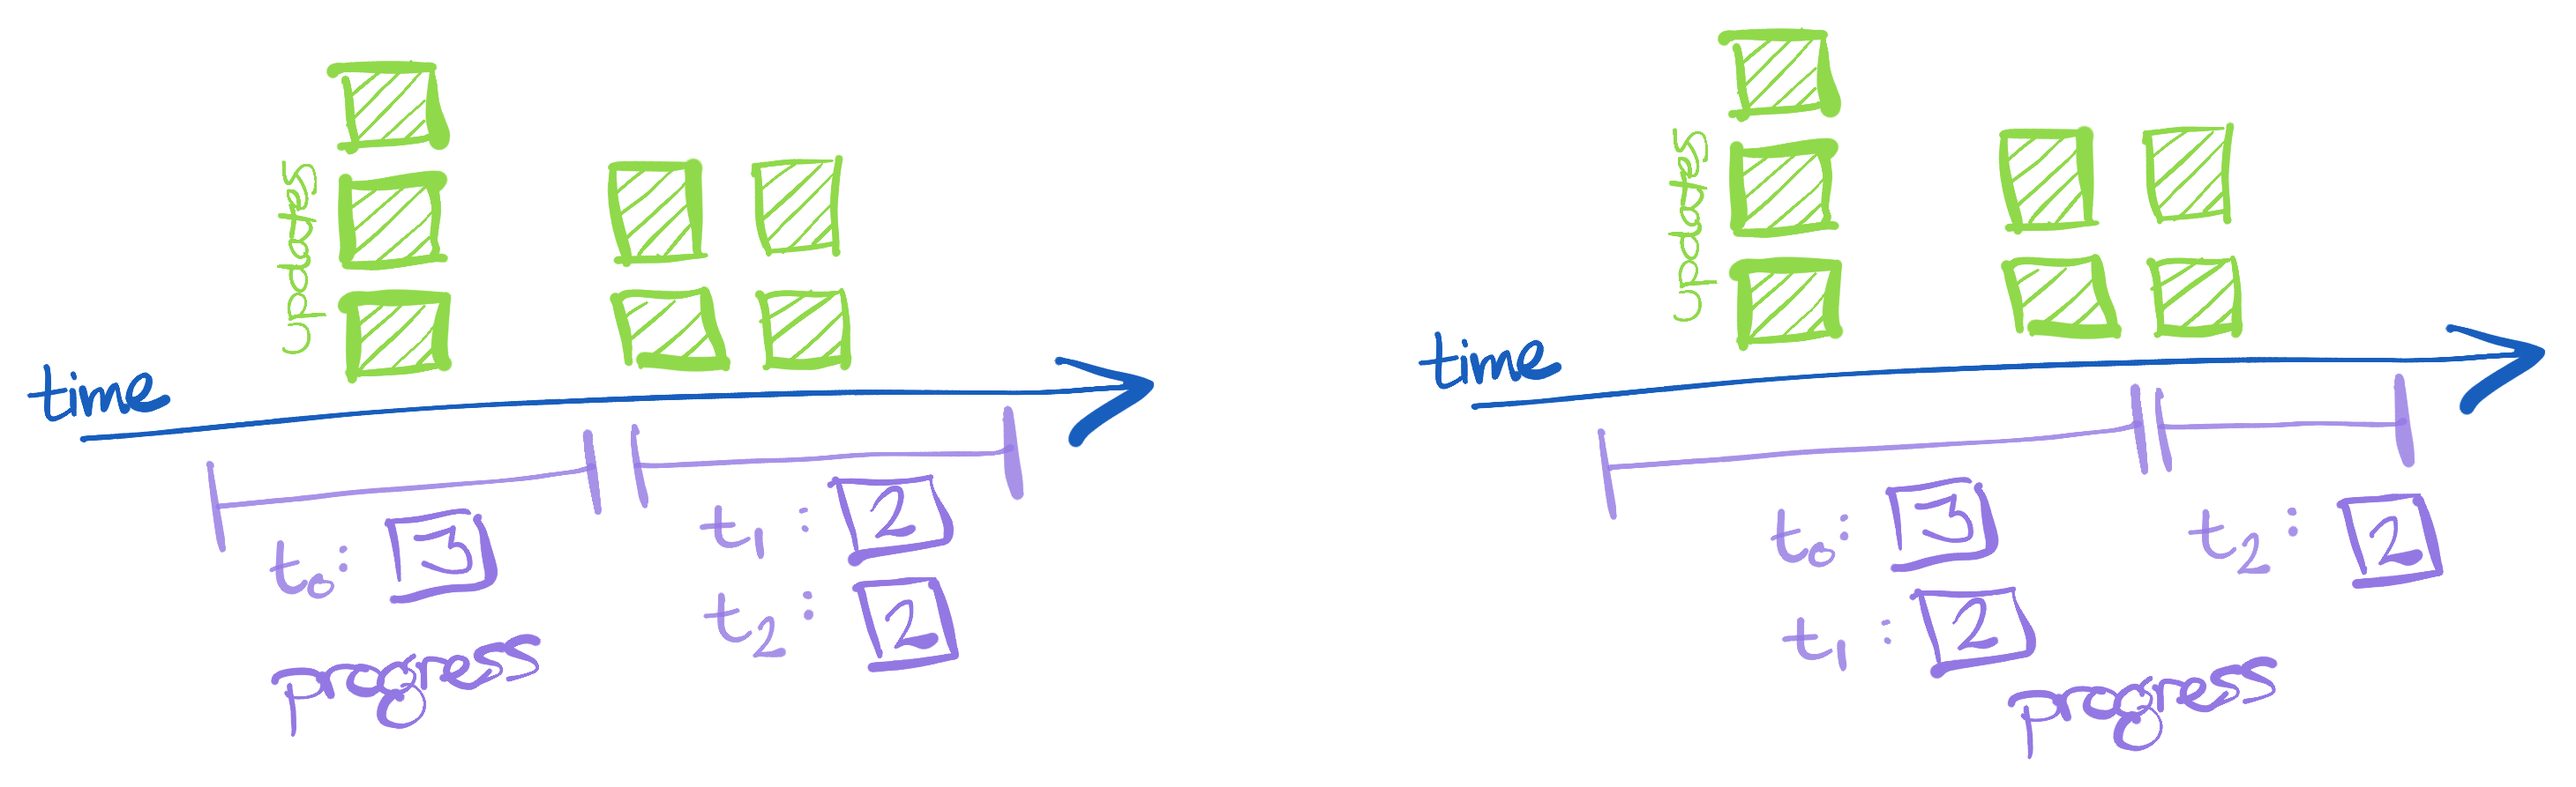
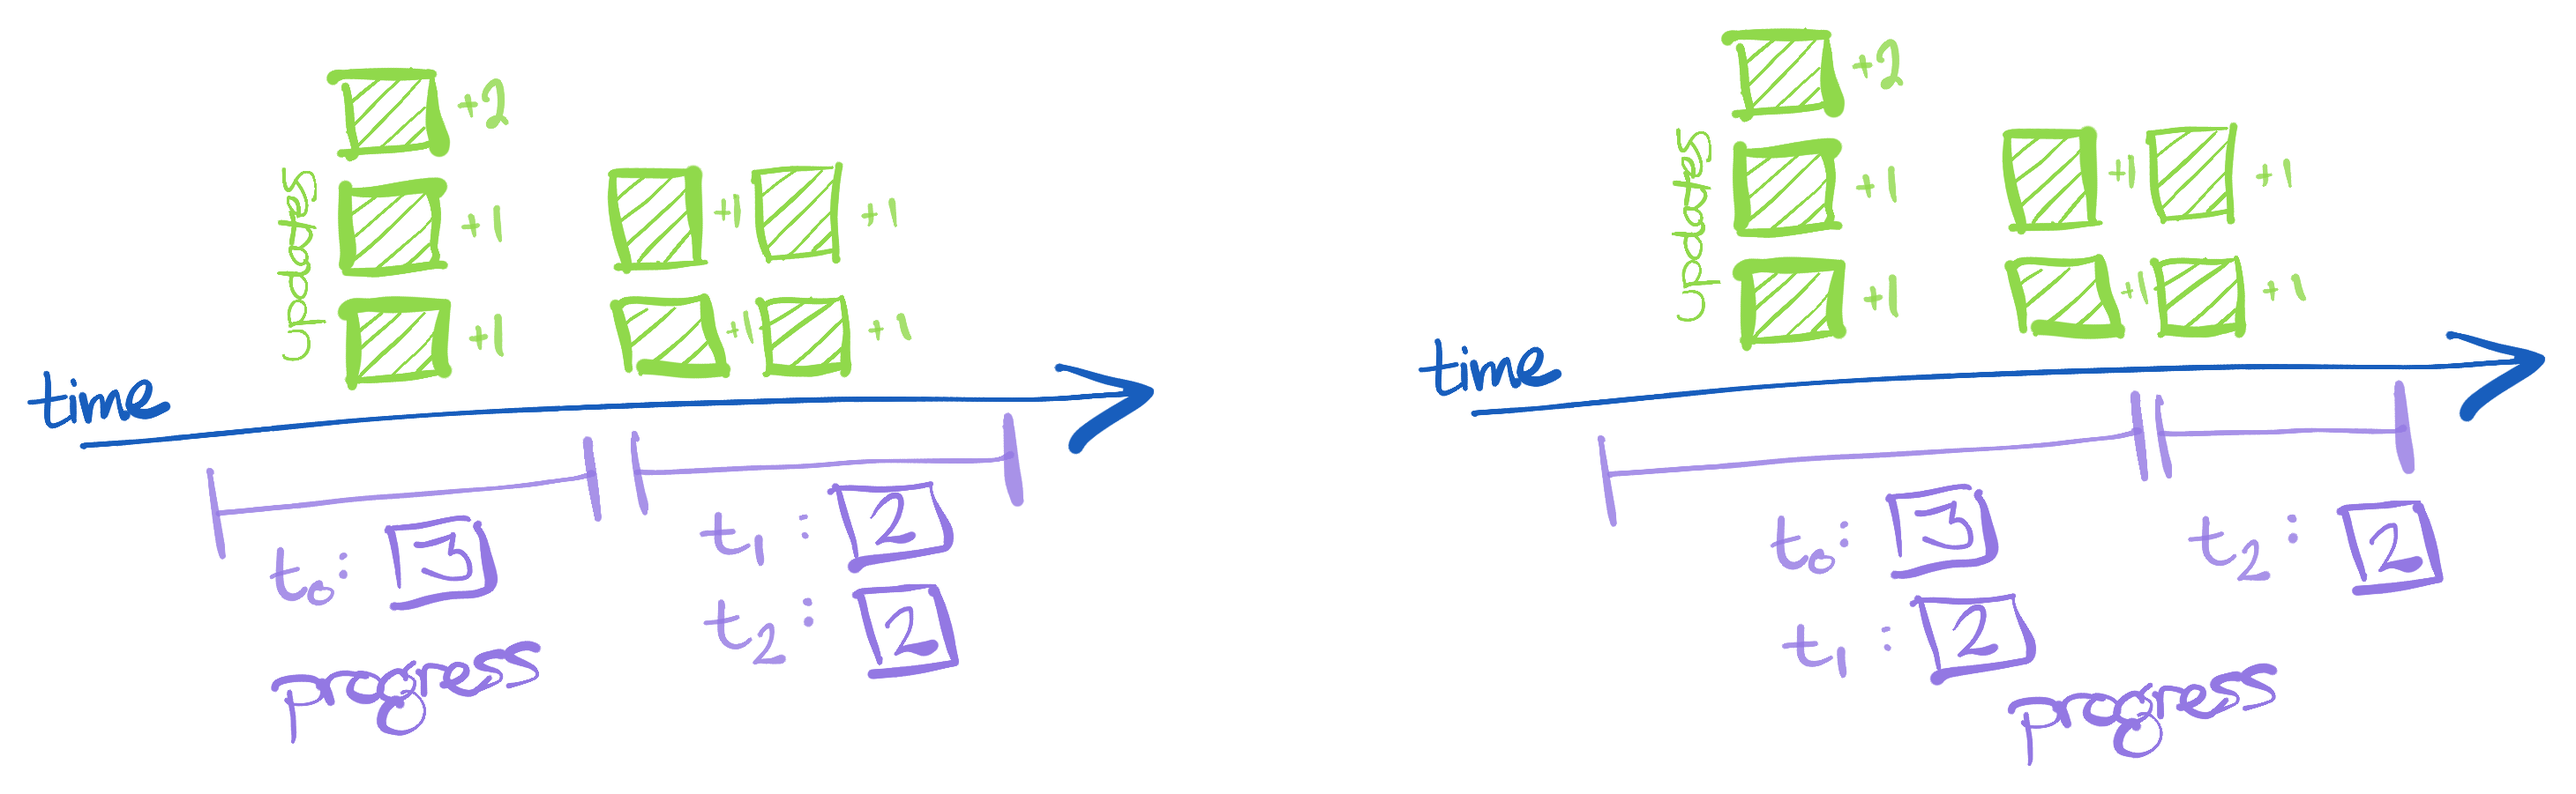
draft update

diff --git a/posts/2020-08-01.md b/posts/2020-08-01.md
@@ -1,4 +1,4 @@
-# Change Data Capture
+# Change Data Capture (part 1)
 
 **DRAFT**
 
@@ -8,34 +8,36 @@ What makes this challenging? Why not just write out a log of whatever happens to
 
 If you are familiar with the modern stream storage system---Kafka, Kinesis, Pulsar, Azure Event Hubs---you may know how awkwardly our three desiderata interact. If you want performance, you should expect to read concurrently from streams that are not totally ordered. If you want robustness you'll need to be prepared for duplication in your streams as at-least-once stream storage systems cope with anomalies. Life can be pretty hard if you want correct answers in a distributed setting.
 
-This post will talk through our first revision of our *change data capture* format: how we write down and read back changes to data. This format allows arbitrary duplication and reordering of its messages, among other anomalies, while maintaining a compact footprint in memory. These features allow us to use streaming infrastructure that does not protect against these issues (most of them), but also to introduce several new benefits which we will get to by the post's end.
+This post will talk through a *change data capture protocol*: how one writes down and reads back changes to data. This protocol allows arbitrary duplication and reordering of its messages, among other anomalies, while maintaining a compact footprint in memory. These features allow us to use streaming infrastructure that does not protect against these issues (most of them), but they also allow us to introduce several new benefits which we will get to by the post's end.
+
+It's probably worth stressing that this isn't something Materialize is landing tomorrow. The post is more of an exploration of how we can capture and replay the data that Differential Dataflow produces. The code will be landing in the [Differential Dataflow repository](https://github.com/TimelyDataflow/differential-dataflow), and should be broadly useful. This is also only part 1; we'll talk through the protocol and a single-threaded implementation of the reader, but we won't get as far as the data-parallel implementation in differential dataflow (which [does seem to work](https://twitter.com/frankmcsherry/status/1291828794513403910)!).
 
 ## Data that Change
 
 Let's start out by looking at the problem we have to deal with.
 
-Materialize maintains computations over data that change. The data are large relational collections whose individual records may come and go for reasons we can't anticipate or constrain. All we know is that as time progresses, the data change.
+Materialize maintains computations over data that change. The data are large relational collections whose individual records may come and go for reasons we can neither anticipate or constrain. All we know is that as time progresses, the data change.
 
-We can record the changes that happen to the data by writing down the records that are added to and removed from the collection at each time. Materialize is based on [differential dataflow]() which does this with "update triples" of 1. the record that change, 2. the time it changed, and 3. how it changed (was it added or removed).
+We can record the changes that happen to the data by writing down the records that are added to and removed from the collection at each time. Materialize is based on [differential dataflow](https://github.com/TimelyDataflow/differential-dataflow) which does this with "update triples" of 1. the record that changed, 2. the time it changed, and 3. how it changed (was it added or removed).
 
 Let's take an example:
 ```
-// three records are added
+// four records are added
+(record0, time0, +1)
 (record0, time0, +1)
 (record1, time0, +1)
 (record2, time0, +1)
 
 // one record is "updated"
 (record1, time1, -1)
-(record4, time1, +1)
+(record2, time1, +1)
 
 // two records are deleted
 (record0, time2, -1)
-(record4, time2, -1)
+(record2, time2, -1)
 ```
 
-We see a sequence of changes, ordered by the three times `time0`, `time1`, and `time2`. At `time0` we see three records are introduced. We don't know if these are the "initial data", but we don't need to; we are just transcribing the changes that occur. At `time1` we see both a deletion and an addition of a record. We can interpret this (perhaps incorrectly) as an update to `record1` that changes it to `record4`; again we aren't worried about the reason for the change, just what the change was. Finally, at `time2` we see the deletion of two records.
-
+We see a sequence of changes, ordered by the three times `time0`, `time1`, and `time2`. At `time0` we see four records are introduced. It turns out one record was added twice but collections are multisets so that can happen. At `time1` we see both a deletion and an addition of a record. We can interpret this (perhaps incorrectly) as an update to `record1` that changes it to `record4`; again we aren't worried about the reason for the change, just what the change was. Finally, at `time2` we see the deletion of two records.
 
 ![Data change as time advances](https://github.com/frankmcsherry/blog/blob/master/assets/cdc/figure1.png)
 
@@ -49,41 +51,42 @@ Our history has *updates to data*, but we can also provide *progress statements*
 Here is a history with progress statements.
 ```
 update (record0, time0, +1)
+update (record0, time0, +1)
 update (record1, time0, +1)
 update (record2, time0, +1)
 finish time0
 update (record1, time1, -1)
-update (record4, time1, +1)
+update (record2, time1, +1)
 finish time1
 update (record0, time2, -1)
-update (record4, time2, -1)
+update (record2, time2, -1)
 finish time2
 finish time3
 ...
 ```
 
-I put in both a `finish time2` to show that we can close out the `time2` updates, but also a `finish time3` to show that we might want to communicate that times are closed even when there are no updates.
+I put in a `finish time2` statement to show that we can close out the `time2` updates, but also a `finish time3` statement to show that we might want to communicate that times are closed even when there are no updates.
 
 ## Anomalies and Opportunities
 
-Because computer systems are complicated, we can't simply write down the history above and expect everything to work out. Because computer systems are complicated, they will occasionally re-order or duplicate records. Mostly, this is because people want to use more than one computer, and as soon as you start doing that the two computers rarely agree on how things were supposed to happen.
+Because computer systems are complicated, we can't simply write down the history above and expect everything to work out. Because computer systems are complicated, they will occasionally re-order or duplicate records. Mostly, this is because people want to use more than one computer, and as soon as you start doing that any two computers rarely agree on how things were supposed to happen.
 
 Anyhow, modern stream storage like Kafka, Kinesis, Pulsar, and Azure Event Hubs have quirks that mean if you want both performance and fault-tolerance, your data might get shuffled around and duplicated. On the plus side, you are pretty sure that what you write will be recorded and eventually available to readers. This is way better than the alternative of losing data; having too much information beats having not enough information.
 
-It probably wouldn't take much to convince you that the history as written above loses something when you reorder and duplicate rows in it. If you repeat an `update` statement, you might believe that you should do the update twice. If you reorder a `progress` statement, you may prematurely conclude that the data have ceased changing and then miss some updates. The format as presented above is pretty easy for us humans to read, but it isn't great when uncooperative computers get their hands on it and change how it is laid out.
+It probably wouldn't take much to convince you that the history as written above loses something when you reorder and duplicate rows in it. If you repeat an `update` statement, you might believe that you should do the update twice (we actually do have a repeat in our history, but it is intended!). If you reorder a `progress` statement, you may prematurely conclude that the data have ceased changing and then miss some updates. The format as presented above is pretty easy for us humans to read, but it isn't great when uncooperative computers get their hands on it and change how it is laid out.
 
-We'll want a format that protects us against these vagaries of uncooperative computers, specifically duplication and reordering.
+We'll want a way to present the information that protects us against these vagaries of uncooperative computers, specifically duplication and reordering.
 
-At the same time, immunizing ourselves to duplication and reordering provides us with some new opportunities.
+At the same time, if we immunize ourselves to duplication and reordering we are provided with some new opportunities.
 
-* If our representation can be written and read in any order, then we can deploy a large number of concurrent writers and readers. We may be able to grind through a history much more quickly as a result.
+* If our representation can be written and read in any order, then we can deploy a large number of concurrent writers and readers. We may be able to grind through a history much more quickly as a result. The number of readers and writers can be scaled up and down, and doesn't need to be baked in to the representation.
 
 * If our representation can tolerate arbitrary duplication, then we can use multiple computers to reduntantly compute and write out the results. This provides so-called *active-active* fault-tolerance, which duplicates work but insures against the failure (or planned outage) of individual workers.
 
     ![Active-active replication](https://github.com/frankmcsherry/blog/blob/master/assets/cdc/active.png)
 
 
-There are several other advantages to these degrees of robustness, from resharding streams of data to easing the reintroduction of new or recovered replicas. Migrating between query plans without interruption. Stuff like that.
+There are several other advantages to these degrees of robustness, from resharding streams of data to easing the reintroduction of new or recovered replicas. Migrating between query plans without interruption. Stuff like that. I just made those up, but lots of operational simplicity emerges.
 
 ## Materialize CDCv2
 
@@ -91,23 +94,40 @@ Let's get right in to the proposal.
 
 ### A Sketch
 
-We will make two types of statements, both of which will be statements true about the final history. We will make these statements only when we are certain they are true, and they will remain true from that point on.
+We will make two types of statements, both of which will be statements that are true about the final history, though statements we can make before the history is complete. We will make these statements only once we are certain they are true and will remain true.
 
 * *Update statements* have the form `update (data, time, diff)` and indicate that the change that `data` undergoes at `time` is exactly `diff`.
 
 * *Progress statements* have the form `progress (time, count)` and report the number of distinct updates that occur at `time`.
 
-In picture form, it might look something like this:
+For the example from up above, we might write
+
+```
+update (record0, time0, +2)
+update (record1, time0, +1)
+update (record2, time0, +1)
+progress (time0, 3)
+update (record1, time1, -1)
+update (record2, time1, +1)
+progress (time1, 2)
+update (record0, time2, -1)
+update (record2, time2, -1)
+progress (time2, 2)
+progress (time3, 0)
+...
+```
+
+There could actually be other times too, and if so we should write them down with their zero counts. In picture form, it might look something like this:
 
 ![Data change as time advances](https://github.com/frankmcsherry/blog/blob/master/assets/cdc/figure2.png)
 
 Clearly I've had to make up some new times to fit around `time0` and `time1`, but I hope you'll excuse that!
 
-A stream of these statements may be arbitrarily duplicated and reordered, and we can still recover as much of the history as is fully covered by the update and progress statements.
+The statements above may be arbitrarily duplicated and reordered, and we can still recover as much of the history as is fully covered by the update and progress statements.
 
-We will work through the details of the recovery process, but ideally the intuition is clear about why this might work. As we collect statements, we start to re-assemble the puzzle pieces of the history of the collection. We can place updates at moments in time, and we learn how many updates it takes for the set at a time to be complete. We can perform this work even if statements come out of order, and any duplicate information ideally corroborates what we already know but can otherwise be discarded.
+We will work through the details of the recovery process, but ideally the intuition is clear about why this might work. As we collect statements, we can start to re-assemble the puzzle pieces of the history of the collection. We can place updates at moments in time, and we learn how many updates it takes for the set at a time to be complete. We can perform this work even if statements come out of order, and any duplicate information should just corroborate what we already know.
 
-In addition to putting the puzzle back together, we get the appealing (and often overlooked) property that the memory footprint of the recovery process can be proportional only to those statements that have been received for times that have not yet been recovered. We do not need to maintain unboundedly long histories. As moments in time become finished we can flip a bit for the time to indicate that it is full and discard all of the updates; as intervals in time become finished we can retain only their upper and lower bounds.
+In addition to putting the puzzle back together, we get the appealing (and often overlooked) property that we do not need to maintain unboundedly long histories to do so. As moments in time become finished we can flip a bit for the time to indicate that it is full and discard all of the updates we have, as well as future updates for the time. As intervals in time become finished we can retain only their upper and lower bounds.
 
 ### An Implementation
 
@@ -119,6 +139,8 @@ enum Message<Data, Time, Diff> {
     ///
     /// Each statement contains a datum, a time, and a difference, and asserts
     /// that the multiplicity of the datum changes at the time by the difference.
+    ///
+    /// There should be at moste one occurrence of each `(data, time)` pair.
     Updates(Vec<(Data, Time, Diff)>),
     /// A statement about the number of updates within a time interval.
     Progress(Progress<Time>),
@@ -136,29 +158,31 @@ struct Progress<Time> {
     /// The upper bound of times contained in this statement.
     pub upper: Vec<Time>,
     /// All non-zero counts for times beyond `lower` and not beyond `upper`.
+    ///
+    /// Each time must be beyond `lower` and not beyond `upper`, and occur
+    /// at most once in the list.
     pub counts: Vec<(Time, usize)>,
 }
 ```
-The `lower` and `upper` bounds are each vectors of time, which might seem odd at first. In our world, times aren't necessarily *totally* ordered, and an interval of time is better explained by two *sets* of times, where the interval contains those times that are greater than or equal to an element of `lower` and greater than or equal to no elements of `upper`. You are welcome to think of them as integers, but bear in mind that `upper` could be empty (which is how one indicates an interval that ends a stream).
+The `lower` and `upper` bounds are each vectors of time, which might seem odd at first. In our world, times aren't necessarily *totally* ordered, and an interval of time is better explained by two *sets* of times, where the interval contains those times that are greater than or equal to an element of `lower` and greater than or equal to no elements of `upper`. You are welcome to think of them as integers, but bear in mind that `upper` could also be *empty* (which is how one indicates an interval that ends a stream).
 
 Here is a picture that hints at what is different with the progress statements:
 
 ![Data change as time advances](https://github.com/frankmcsherry/blog/blob/master/assets/cdc/figure3.png)
 
-Notice that rather than a record for each time, we have intervals of times in which we record only those counts with non-zero times.
+Notice that rather than one progress message for each time, we have intervals of times in which we record only those counts with non-zero times.
 
-One detail we should shake out now is that we've introduce some non-determinism into our format: how we choose to batch updates and progress statements. It's worth clearly stating that we will be able to tolerate not only literal duplication and re-ordering of messages, but also duplication and re-ordering of the *information* in the messages, even with different batching of that information.
+You may have noticed that we've introduced some non-determinism into our protocol: how we batch updates and progress statements. It's worth clearly stating that we will be able to tolerate not only literal duplication and re-ordering of messages, but also duplication and re-ordering of the *information* in the messages, even with different batching of that information.
 
 For example, the following figure presents two ways we could have batched progress information.
 
 ![Data change as time advances](https://github.com/frankmcsherry/blog/blob/master/assets/cdc/figure4.png)
 
-Even though there is not duplication between the two sets of progress statements, we'll end up recovering the puzzle just fine if someone interleaved the statements from the right and left side.
+Even though there is not literal duplication between the two sets of progress statements, we'll end up recovering the puzzle just fine if someone mixed up the statements from the right and left side (or any other way that does not present conflicting information).
 
 ### An Iterator
 
-
-We'll work through how one might implement this in a timely dataflow system, but let's start with the simpler task of re-ordering and deduplicating an arbitrarily mangled input stream of `Message` records.
+Although we'll eventually work through how one might implement this in a timely dataflow system (but not today), let's start with the simpler task of re-ordering and deduplicating an arbitrarily mangled input stream of `Message` records.
 
 The iterater that I've written wraps around an arbitrary `I: Iterator<Item = Message>` which is Rust's way of saying "any specific type that can produce a sequence of `Message` items". It also wraps a bit of additional state as well, used to keep track of what we've seen. I've left the comments in, but if everything looks intimidating there are just six fields.
 
@@ -215,7 +239,7 @@ where
 }
 ```
 
-I thought for demonstration purposes I would have the iterator produce the `update` and `finish` statements we had back in the simple history. For reasons, I'd rather produce a batch of updates and one `finish` statement, all at the same time (it is easier to do that once, than to trickle out updates one by one; you need another state machine for that).
+I thought for demonstration purposes I would have the iterator produce the `update` and `finish` statements we had back in the simple history. For reasons, I'd rather produce a batch of updates and one `finish` statement, all at the same time (it is easier to do that once for each call, than to trickle out updates one by one; you need another state machine to do that).
 ```rust
 impl<D, T, R, I> Iterator for Ordered<I, D, T, R>
 where
@@ -323,3 +347,13 @@ The last bit of logic is to look at what evidence we have accumulated, both `sel
         return Some((to_publish, lower_bound));
     }
 ```
+
+That's it!
+
+I'm sure it's been a bit of an exercise, but I hope the hand-drawn pictures have re-assured you that such a thing is possible.
+
+## Conclusions
+
+We've seen how you can set up a protocol that records the timestamped changes collections undergo, in a way that is robust to duplication and reordering (and re-batching, for what that's worth). Just how exciting this is remains to be seen, but my sense is that this introduces substantial operational simplicity to settings where systems fail, systems lag, and generally folks may need to repeat work to be sure that it has been done. If multiple systems need to stay live as part of a live migration from one to another, or if the data itself needs to be migrated from relatively faster and pricier storage off to somewhere colder, this protocol seems helpful.
+
+There are surely other protocols that provide qualitatively similar properties; I'm not trying to claim that we've invented anything here. But, part of the exercise is making sure you understand a thing, and I've certainly been helped by that. I hope you have as well!
